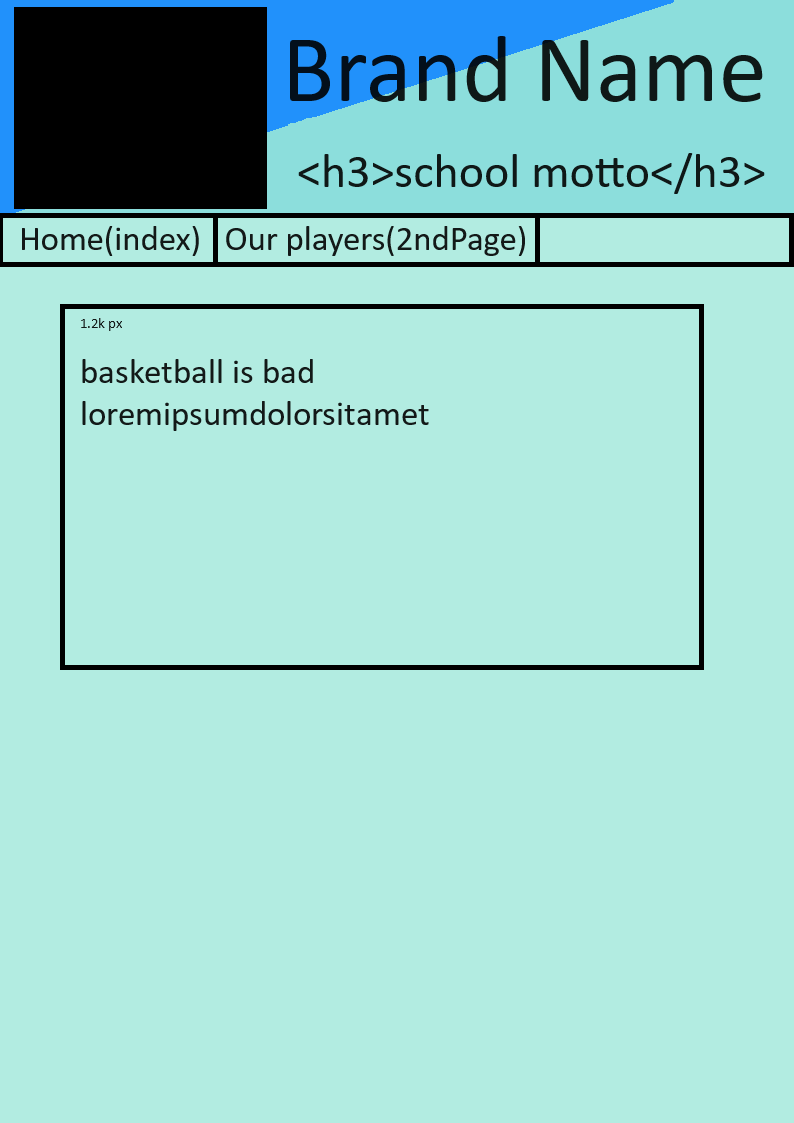
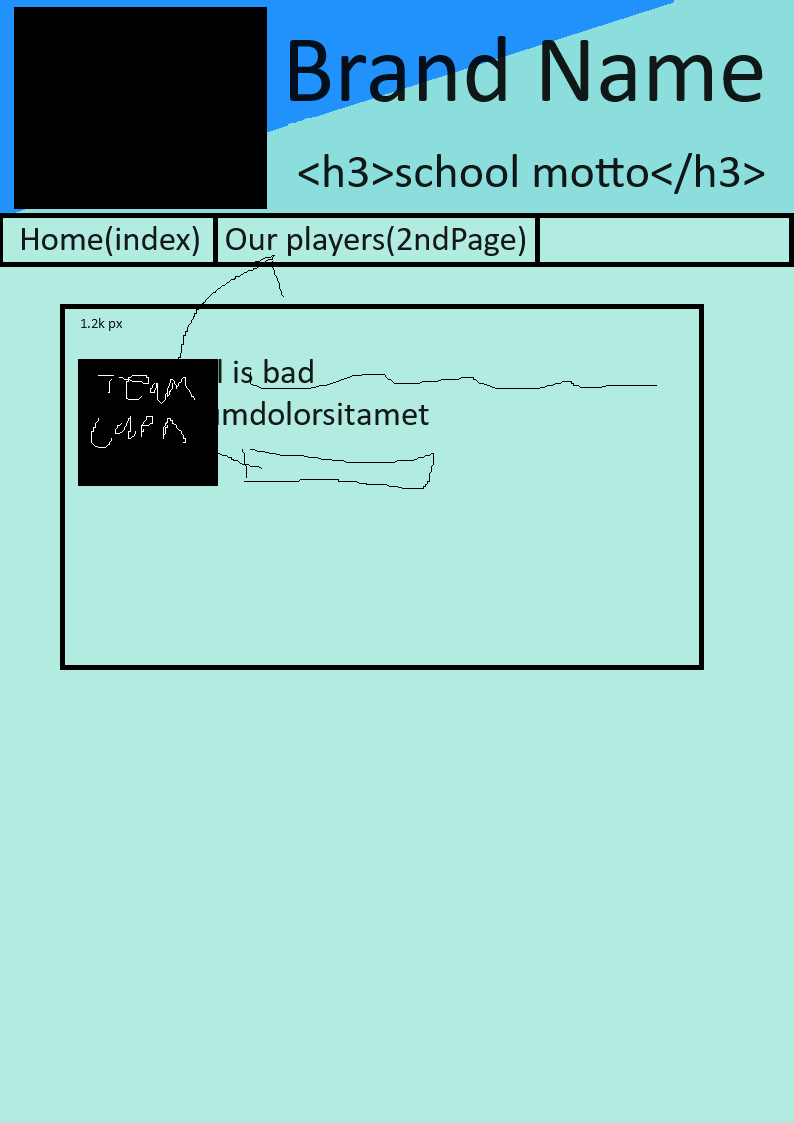
Hotfixed index and style Added "Lorem ipsum" version of image Changed plan

Changed region(s): [[0.0907, 0.3117, 0.272, 0.4363]]

diff --git a/index.html b/index.html
@@ -28,6 +28,7 @@
         <div id = introduction>
             <!--Team captain as well-->
             <p>Lorem ipsum dolor sit amet consectetur adipisicing elit. Maxime inventore omnis cumque voluptatum corporis accusantium ullam optio similique exercitationem dolor?</p>
+            <img src = "Planning/LoremImejiSum.png" alt = "" width = 150 height = 150>
         </div>
         <div id = description>
             <!--add someone slam dunking @ right-->
@@ -44,6 +45,9 @@
                     <th>Opponents</th>
                 </tr>
                 <tr>
+                    <td></td>
+                    <td></td>
+                    <td></td>
                     <td></td>
                 </tr>
             </table>

diff --git a/style.css b/style.css
@@ -36,8 +36,8 @@ nav ul li{
 /* cosmetic nav bar */
 .ImageLogo{
     float:left;
-    margin: 15px 0;
-    width: 10%;
+    margin: 0 0;
+    width: 15%;
 }
 .RightOfImage{
     float:left;
